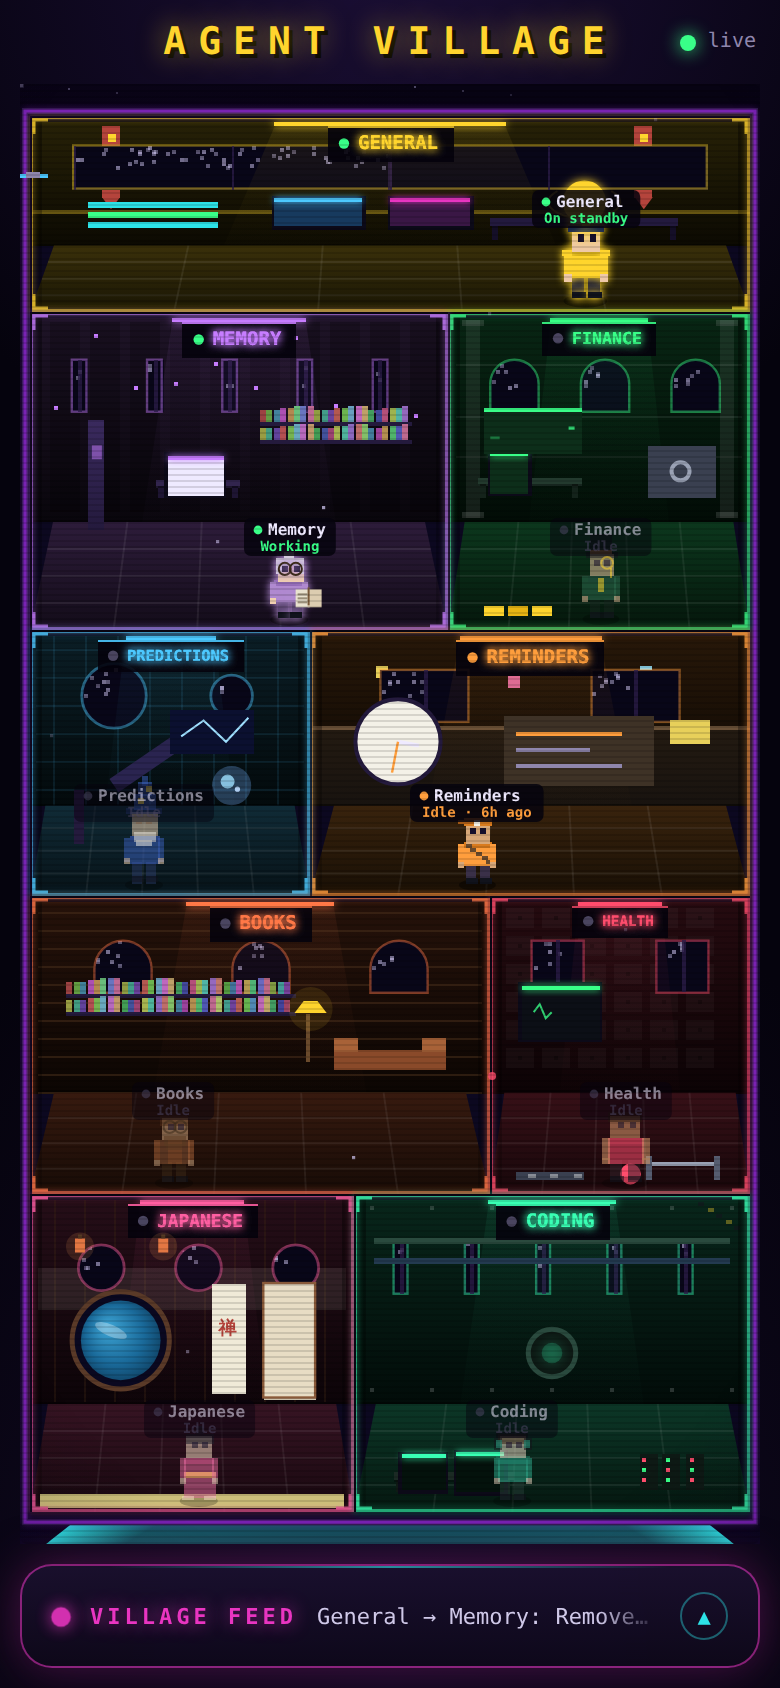
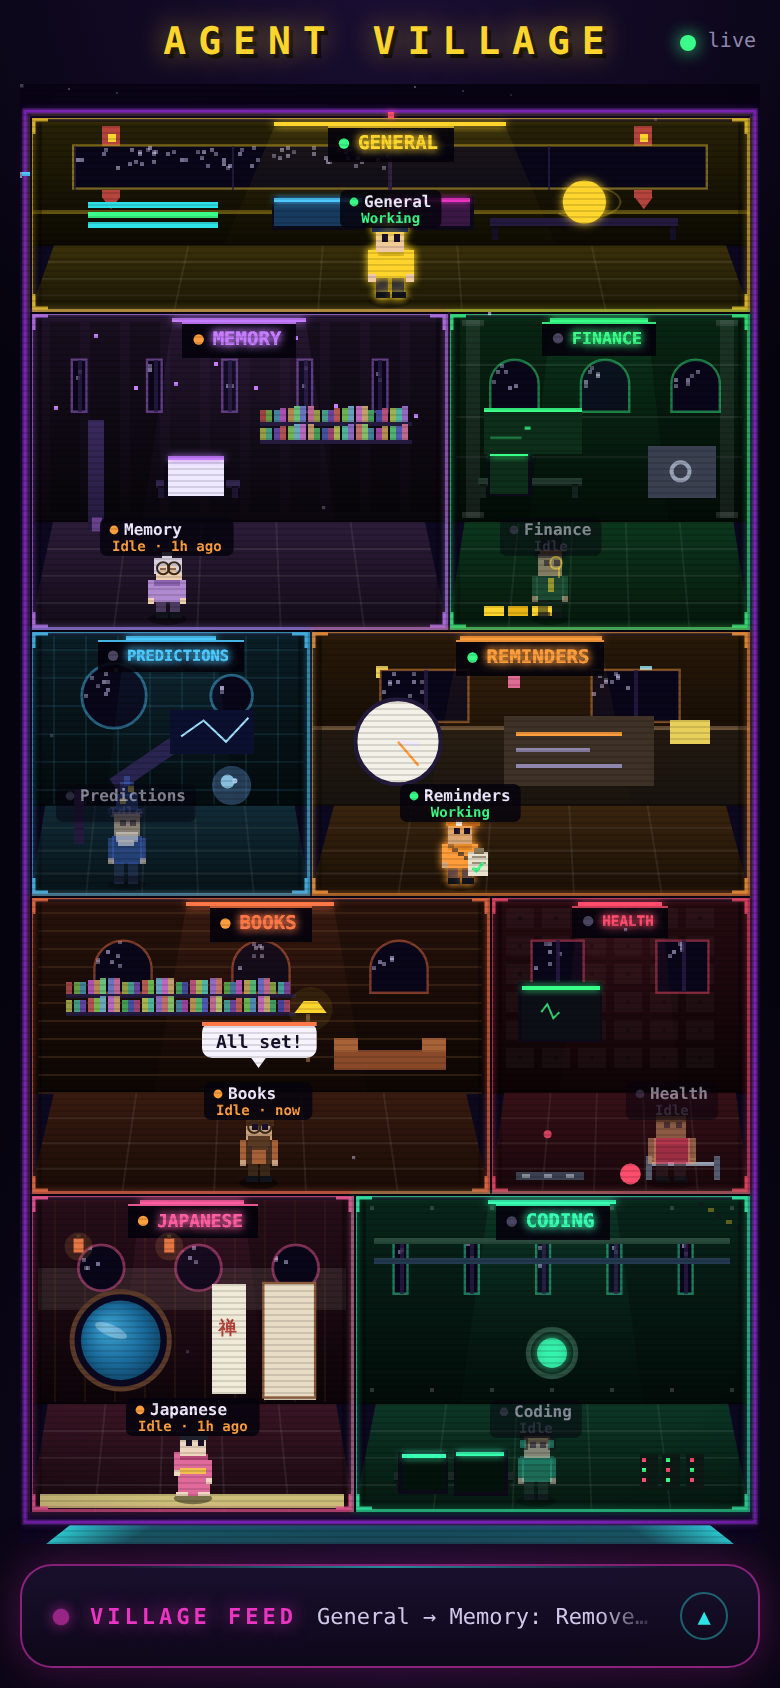
Cron refreshes status; completion bubbles; newest-at-bottom panels
- Fix cron status freshness: an agent's last cron run now counts toward its
  activity, so a job that just fired shows Working ⏰<job> (was stale 'Nh ago').
  Recent run (<=3m) marks the agent working with the job as its current task.
- Agents pop a completion speech bubble when they finish working (delegated
  task or cron): their real reply if fresh, else a 'Done ✅'-style line, fading
  out after ~5s (suppressed while General is delivering, to avoid overlap)
- Room panels list oldest→newest with the most recent activity at the bottom
  and auto-scroll there (General delegation log + agent task history)

diff --git a/index.html b/index.html
@@ -173,6 +173,10 @@ const replyByAgent={};   // agent id -> {content, ts} latest real reply from its
 const ACKS=['On it! 👍','Got it — right away.','Consider it done ✅','Roger that!',
   'Leave it to me.','Copy that — starting now.','Sure thing!','Taking care of it 🔧'];
 function ackFor(id){let h=0;for(const c of String(id))h=(h*31+c.charCodeAt(0))>>>0;return ACKS[h%ACKS.length];}
+const DONES=['Done ✅','All set!','Finished 👍','Wrapped up ✨','Task complete','Sorted!',
+  'Handled it ✅','That’s done!','Complete 🎉'];
+function doneFor(id){let h=7;for(const c of String(id))h=(h*33+c.charCodeAt(0))>>>0;return DONES[h%DONES.length];}
+const doneBubble={};   // id -> {text, until(ms)}  completion speech bubbles
 
 let AGENTS=[], byId={}, rooms={};
 let W=0,H=0,dpr=1, spineX=0, spineW=0, spineTop=0, spineBot=0;
@@ -624,6 +628,21 @@ function nameTag(ctx,cx,feetY,s,name,label,stHex){
   if(label){ctx.font='600 7px ui-monospace,monospace';ctx.fillStyle=stHex;ctx.textAlign='center';
     ctx.fillText(label,x+w/2,y+11);}
 }
+/* canvas speech bubble (used for completion "Done!" pops above a room) */
+function speechBubble(ctx,cx,baseY,text,accent,alpha){
+  ctx.save();ctx.globalAlpha=alpha;
+  ctx.font='700 9px ui-monospace,monospace';
+  const tw=Math.min(ctx.measureText(text).width, W*0.44), pad=7, bw=tw+pad*2, bh=18;
+  let x=Math.round(Math.max(HULLX+2,Math.min(HULLX+HULLW-bw-2,cx-bw/2))), y=Math.round(baseY-bh-6);
+  ctx.fillStyle='#f8f4ff';rr(ctx,x,y,bw,bh,5);ctx.fill();
+  ctx.fillStyle=accent;ctx.fillRect(x,y,bw,2);         // colored top accent
+  ctx.fillStyle='#f8f4ff';ctx.beginPath();            // tail
+  ctx.moveTo(cx-4,y+bh-0.5);ctx.lineTo(cx+4,y+bh-0.5);ctx.lineTo(cx,y+bh+5);ctx.closePath();ctx.fill();
+  ctx.save();rr(ctx,x,y,bw,bh,5);ctx.clip();
+  ctx.fillStyle='#17102b';ctx.textAlign='center';ctx.textBaseline='middle';
+  ctx.fillText(text,x+bw/2,y+bh/2+1.5);ctx.restore();
+  ctx.restore();
+}
 
 /* working -> walk to station and stay; idle -> gentle wander; offline -> rest */
 function stepActor(a,o,dt){
@@ -891,6 +910,12 @@ function loop(ts){
     if(working)drawTask(fctx,a.id,o.x,r.feetY-bob,s,time,o.dir);
     nameTag(fctx,o.x,r.feetY-bob,s,a.name,info.statusLabel||'',DOT_HEX[st]);
     fctx.globalAlpha=1;
+    // completion bubble (skip if General is here delivering — his reply bubble covers it)
+    const db=doneBubble[a.id];
+    if(db && ts<db.until && !(walker.state==='visit'&&walker.task&&walker.task.to===a.id)){
+      const left=db.until-ts, al=Math.min(1,left/500);
+      speechBubble(fctx,o.x,r.feetY-bob-19*s,db.text,a.neon||'#39ff88',al);
+    } else if(db && ts>=db.until) delete doneBubble[a.id];
   });
 
   stepWalker(dt);
@@ -953,7 +978,16 @@ function loop(ts){
 /* ============ data / SSE ============ */
 let _agentsSig='', _pingT=null;
 function applyAgents(list){
-  list.forEach(a=>{byId[a.id]={...byId[a.id],...a};});
+  list.forEach(a=>{
+    const prev=(byId[a.id]||{}).status;
+    byId[a.id]={...byId[a.id],...a};
+    // just finished working -> pop a completion bubble (real reply if fresh, else a Done line)
+    if(prev==='working' && a.status && a.status!=='working' && a.id!=='general'){
+      const rb=replyByAgent[a.id];
+      const txt=(rb&&rb.ts>Date.now()/1000-900)?rb.content:doneFor(a.id+(a.currentTask||''));
+      doneBubble[a.id]={text:txt.length>40?txt.slice(0,38)+'…':txt, until:performance.now()+5200};
+    }
+  });
   drawBackground();
   // refresh the feed when statuses/tasks change (covers cron runs appearing)
   const sig=list.map(a=>a.id+a.status+(a.currentTask||'')).join('|');
@@ -1058,14 +1092,14 @@ async function openSheet(id){
       <div class="rep">${esc(replyTxt)}</div></div>`;
   };
   if(a.isHub){
-    // General: his schedule + who he delegated what to (cron runs included)
-    const log=feed.slice().reverse();
+    // General: his schedule + delegation log (oldest→newest, most recent at bottom)
+    const log=feed;   // feed arrives ascending (oldest first)
     sheetChat.innerHTML=schedHtml+'<div class="lbl" style="margin-top:6px">DELEGATION LOG</div>'+
       (log.length?log.map(row).join(''):'<div class="lbl">NO DELEGATIONS YET</div>');
   }else{
-    // Agent: current task + schedule + history (delegations and cron runs)
-    const mine=feed.filter(ev=>ev.to===id).reverse();
-    const curEv=mine[0];
+    // Agent: current task + schedule + history (oldest→newest, most recent at bottom)
+    const mine=feed.filter(ev=>ev.to===id);           // ascending
+    const curEv=mine[mine.length-1];                  // newest
     const working=a.status==='working';
     const curHtml=`<div class="curcard" style="--acc:${acc}">
       <div class="lab" style="color:${acc}">CURRENT TASK</div>
@@ -1079,7 +1113,7 @@ async function openSheet(id){
       '<div class="lbl" style="margin-top:8px">TASK HISTORY</div>'+
       (hist.length?hist.map(row).join(''):'<div class="lbl">NO TASKS YET</div>');
   }
-  sheetChat.scrollTop=0;
+  sheetChat.scrollTop=sheetChat.scrollHeight;   // most recent visible at the bottom
 }
 function closeSheet(){sheet.classList.remove('open');sheetBack.classList.remove('open');}
 sheetBack.addEventListener('click',closeSheet);

diff --git a/agent_status.py b/agent_status.py
@@ -319,18 +319,25 @@ def get_agents() -> list[dict]:
         base = None if shared else last_act.get(th)
         dl = deleg_last.get(a["id"])
         dl_ts = dl[0] if dl else None
-        candidates = [t for t in (base, dl_ts) if t is not None]
-        last_t = max(candidates) if candidates else None
-        age = (now - last_t) if last_t else None
         my_cron = cron_map.get(a["id"], [])
         running_job = next((j for j in my_cron if j["running"]), None)
-        working = running_job is not None
+        # a cron firing is real activity — fold its last-run time into freshness
+        cron_ran = [j for j in my_cron if j.get("last")]
+        cron_last_job = max(cron_ran, key=lambda j: j["last"]) if cron_ran else None
+        cron_last = cron_last_job["last"] if cron_last_job else None
+        candidates = [t for t in (base, dl_ts, cron_last) if t is not None]
+        last_t = max(candidates) if candidates else None
+        age = (now - last_t) if last_t else None
+        # working if a job is running now OR one just ran within the window
+        working = (running_job is not None) or (cron_last is not None and now - cron_last <= WORKING_WINDOW)
         has_open = (th in open_threads) and not shared
         status, label = _status(age, working, has_open, a.get("alwaysOnline", False))
         # what the agent is currently on (drives room sheet + reply context)
         current_task = ""
         if running_job:
             current_task = f"⏰ {running_job['name']}"
+        elif cron_last is not None and now - cron_last <= WORKING_WINDOW:
+            current_task = f"⏰ {cron_last_job['name']}"
         elif dl and (status == "working" or (age is not None and age < DORMANT_WINDOW)):
             current_task = dl[1]
         result.append({
